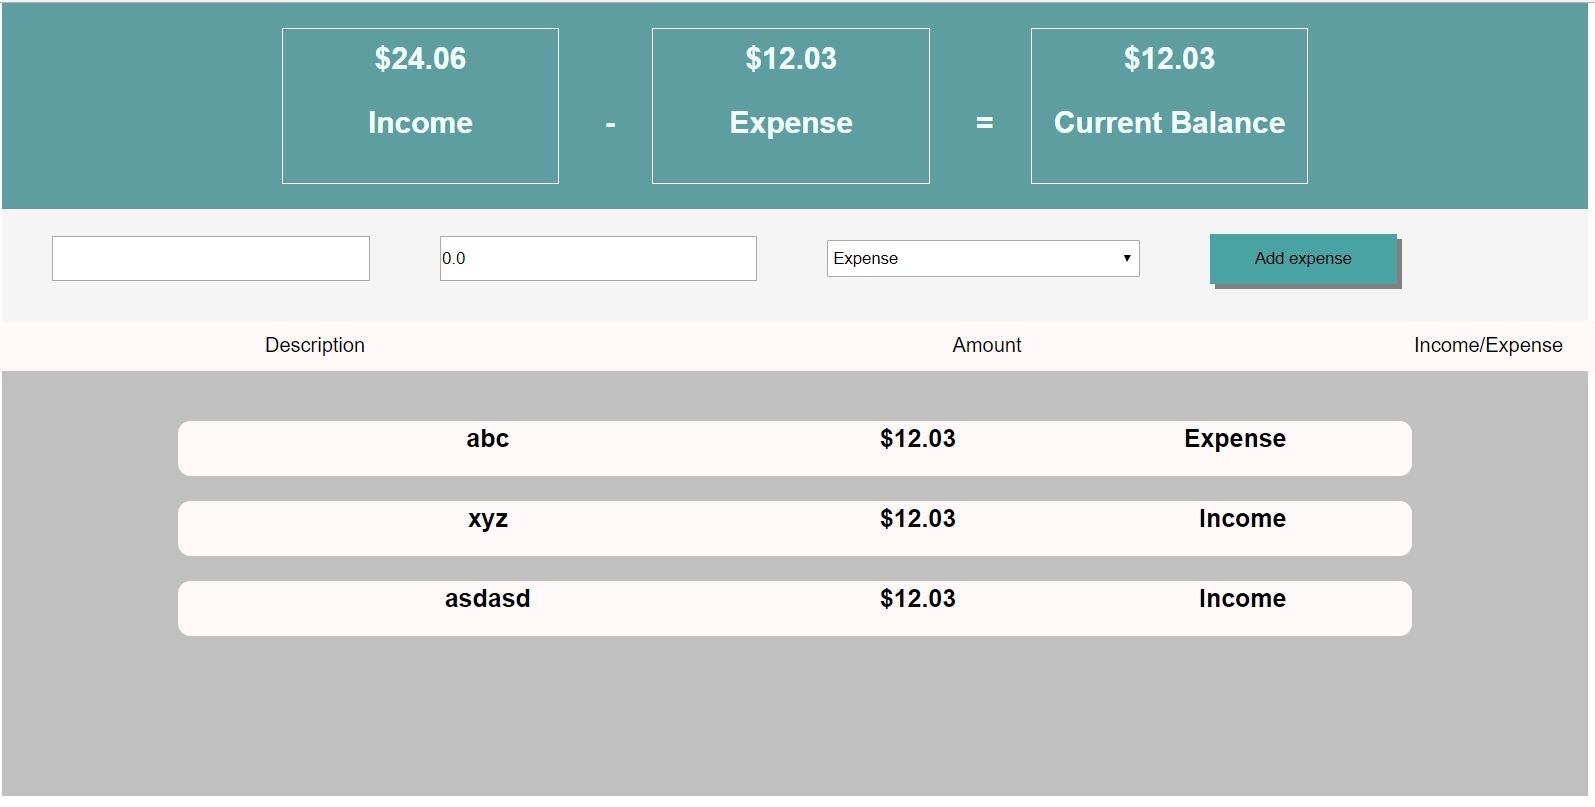
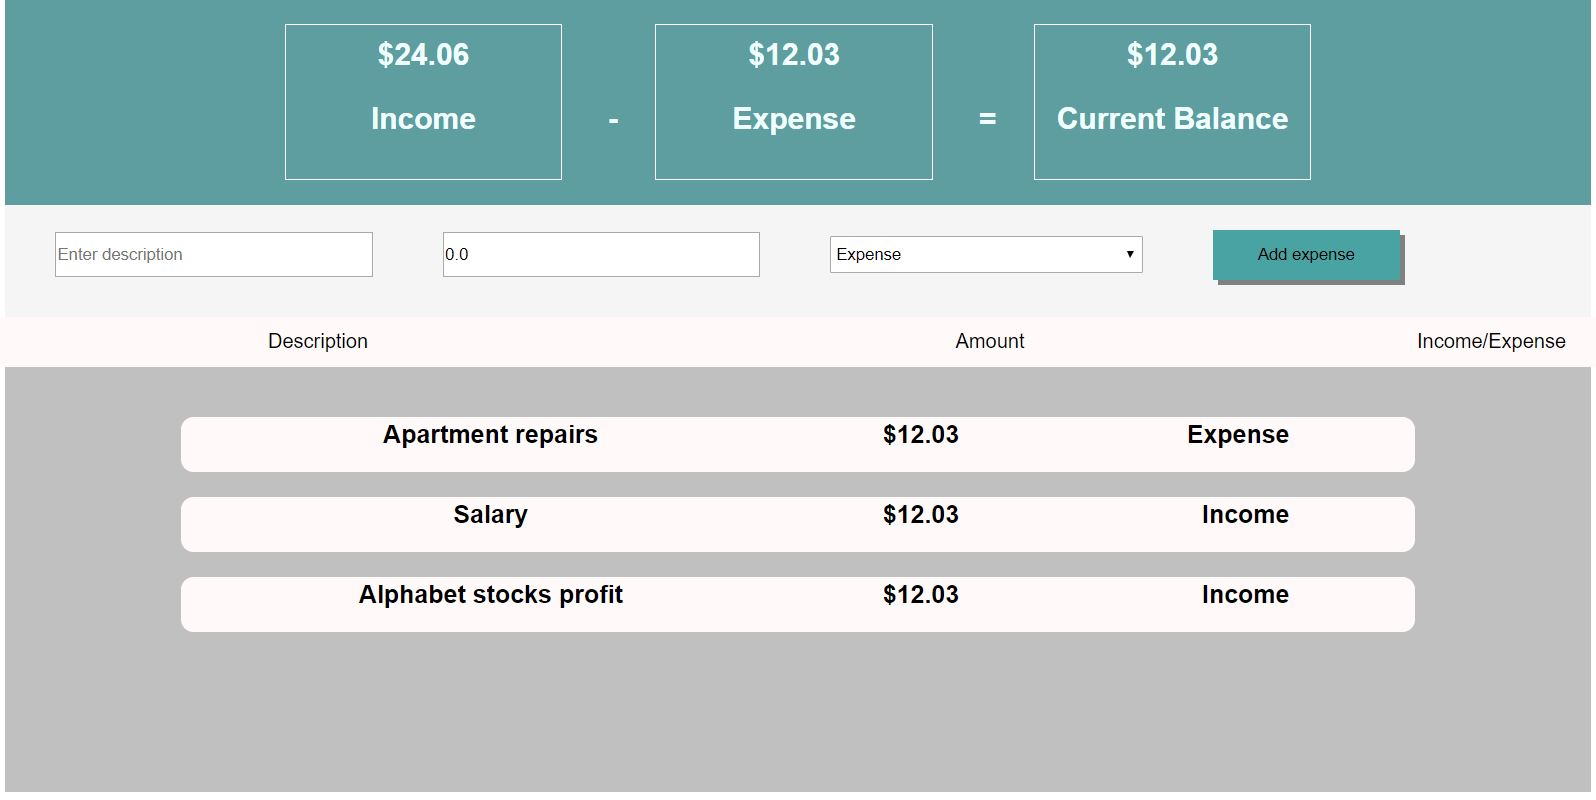
defaultItems

diff --git a/src/App.js b/src/App.js
@@ -9,9 +9,9 @@ class App extends Component {
 
   state={
     txnList:[
-    {description:'abc', amount:12.03, expense:true},
-    {description:'xyz', amount:12.03, expense:false},
-    {description:'asdasd', amount:12.03, expense:false}
+    {description:'Apartment repairs', amount:12.03, expense:true},
+    {description:'Salary', amount:12.03, expense:false},
+    {description:'Alphabet stocks profit', amount:12.03, expense:false}
     ],
     income : 24.06,
     exp : 12.03
@@ -20,10 +20,6 @@ class App extends Component {
   
 
   clickHandler = (desc,amt,type)=>{
-    // let desc = document.querySelector("input[type=text]");
-    // let amt = Number(document.querySelector("input[type=number]").value);
-    // let type = document.querySelector("select").selectedOptions[0].value;
-    console.log(type);
     let newTxn ={description:desc.value, amount: amt, expense : (type === 'income' ? false : true) };
     const newtxnlist = [...this.state.txnList];
     newtxnlist.push(newTxn);
